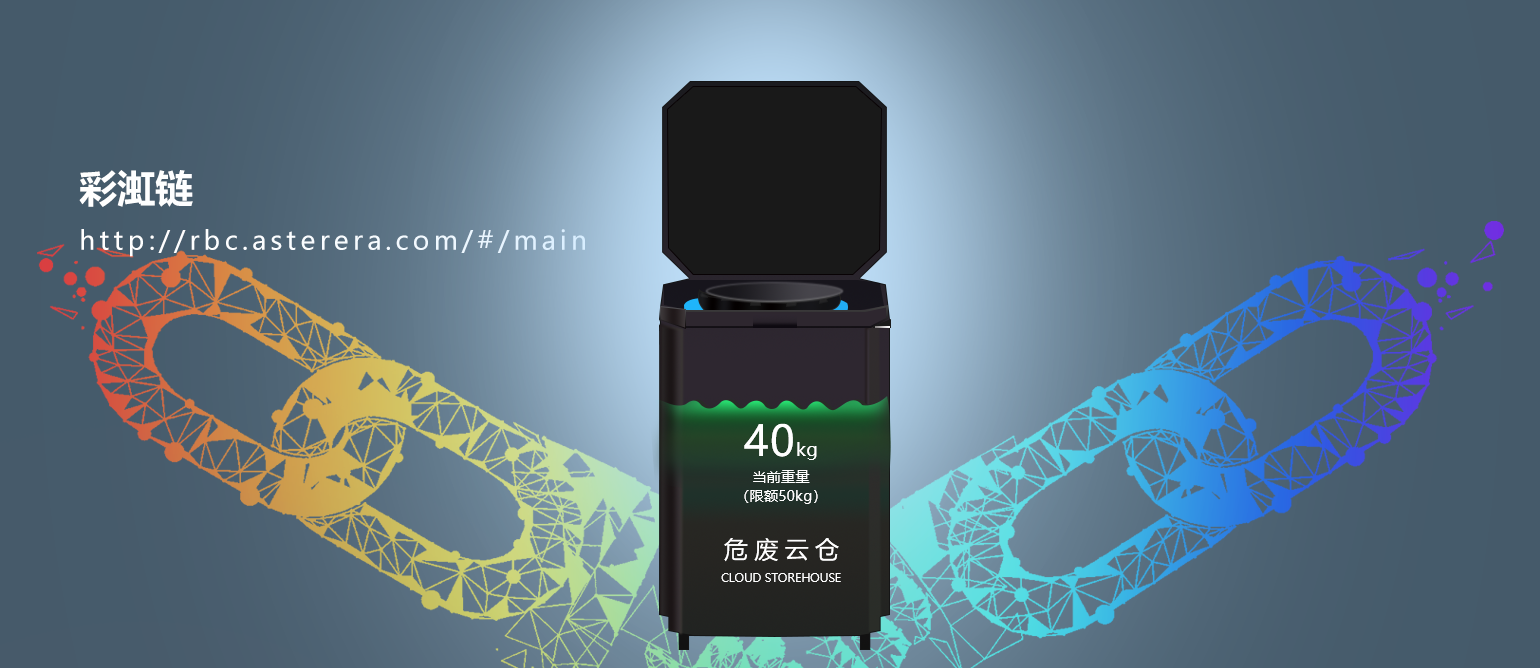
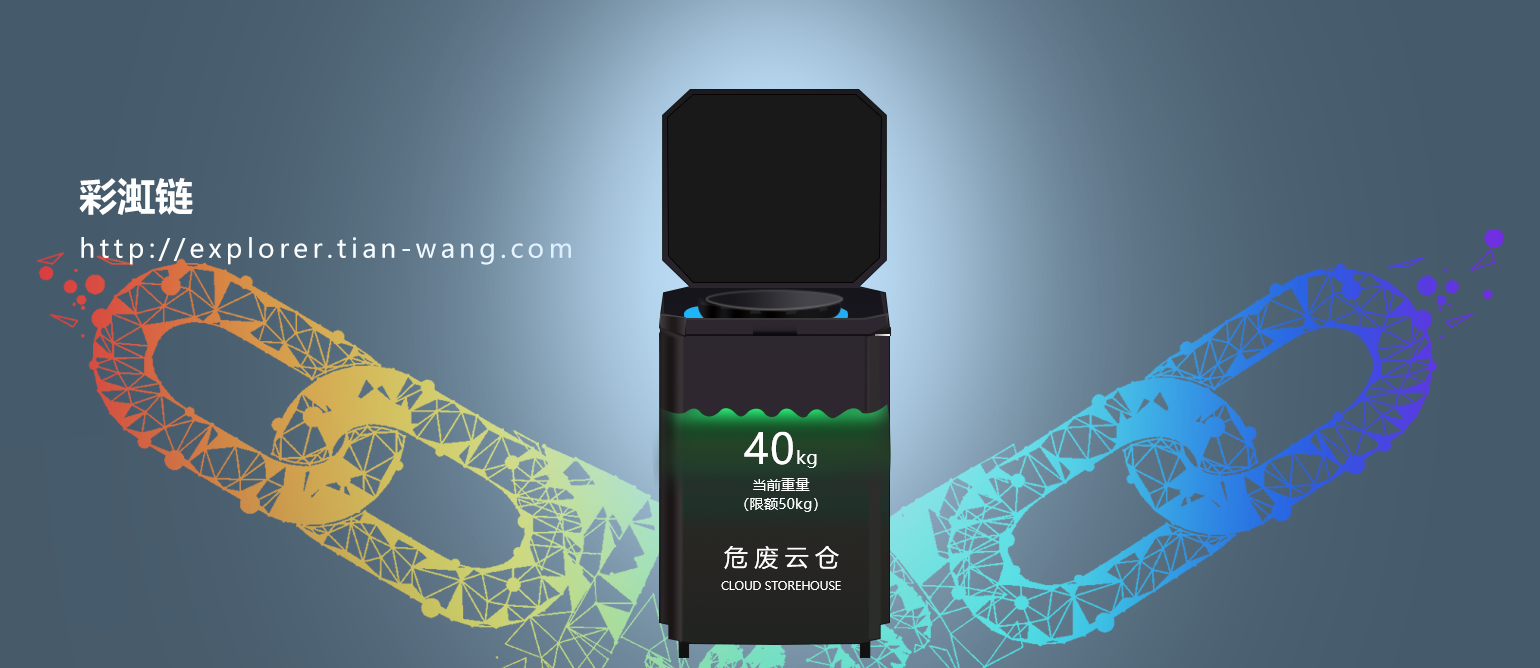
修改官网首页彩渱链地址

diff --git a/index.html b/index.html
@@ -219,7 +219,7 @@
                 </div>
                 <div class="station sec-con anchor">
                     <div class="station-con clearfix">
-                        <a class="station-grid" target="_blank" href="http://block.zjchgk.com">
+                        <a class="station-grid" target="_blank" href="http://explorer.tian-wang.com">
                             <img class="installed-station" src="img/index/visionblue_line.png">
                         </a>
                     </div>
